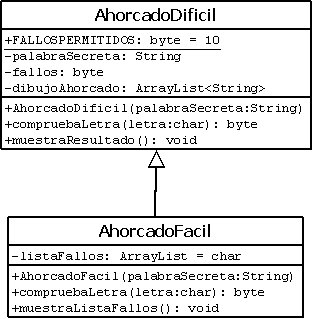
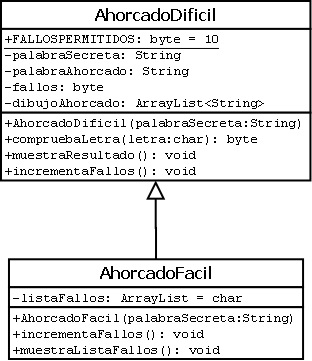
To do last practice part 1

Changed region(s): [[0.0, 0.0, 1.0, 1.0]]

diff --git a/Practica Ahorcado 1/SardGonzalezAntonio/src/AhorcadoDificil.java b/Practica Ahorcado 1/SardGonzalezAntonio/src/AhorcadoDificil.java
@@ -1,0 +1,66 @@
+
+
+
+/**
+ *
+ * @author Antonio Sard González
+ */
+public class AhorcadoDificil {
+    //Atributos:
+    public static final byte FALLOSPERMITIDOS = 10;
+    private String palabraSecreta, palabraAhorcado;
+    private byte fallos;
+    private String[] dibujoAhorcado;
+    //Constructores:
+    public AhorcadoDificil (String palabraSecreta){
+        //Entorno:
+        byte i;
+        //Algoritmo:
+        this.palabraSecreta = palabraSecreta;
+        dibujoAhorcado = new String[10];
+        for(i = (byte)palabraSecreta.length(); i > 0; i--){
+            palabraAhorcado += "*";
+        }//Fin Para
+    }
+    /*
+     
+     
+       +----+
+       |    |   
+       |    o
+       |   /|\
+       |    |
+       |   //
+       |
+     __/\__
+      
+     */
+    //Métodos:
+    /*
+       Si existe la letra pasada por parámetro en la palabra secreta devolverá verdadero,
+       mientras que si no existe devolvera falso.
+     */
+    public boolean compruebaLetra(char letra){
+        //Entorno:
+        boolean existeLetra;
+        //Algoritmo:
+        existeLetra = palabraSecreta.length() 
+                - palabraSecreta.replaceAll(String.valueOf(letra), "").length() < 0;
+        if(existeLetra){
+            this.modificaPalabraAhorcado(letra);
+        }
+        return existeLetra;
+    }//Fin Función
+    public void muestraResultado(){
+        
+    }
+    public void modificaPalabraAhorcado(char letra){
+        //Entorno:
+        
+        //Algoritmo:
+        
+    }//Fin Procedimiento
+    public void incrementaFallos(){
+        fallos++;
+    }//Fin Procedimiento
+}

diff --git a/Practica Ahorcado 1/SardGonzalezAntonio/src/Ahorcado.java b/Practica Ahorcado 1/SardGonzalezAntonio/src/Ahorcado.java
@@ -9,9 +9,7 @@ import java.io.InputStreamReader;
  * @author Antonio Sard González
  */
 public class Ahorcado {
-    /*
-     * La dificultad fácil será false (0) y la difícil true (1).
-     */
+
     public static byte pideDificultad(){
         //Entorno:
         BufferedReader teclado;
